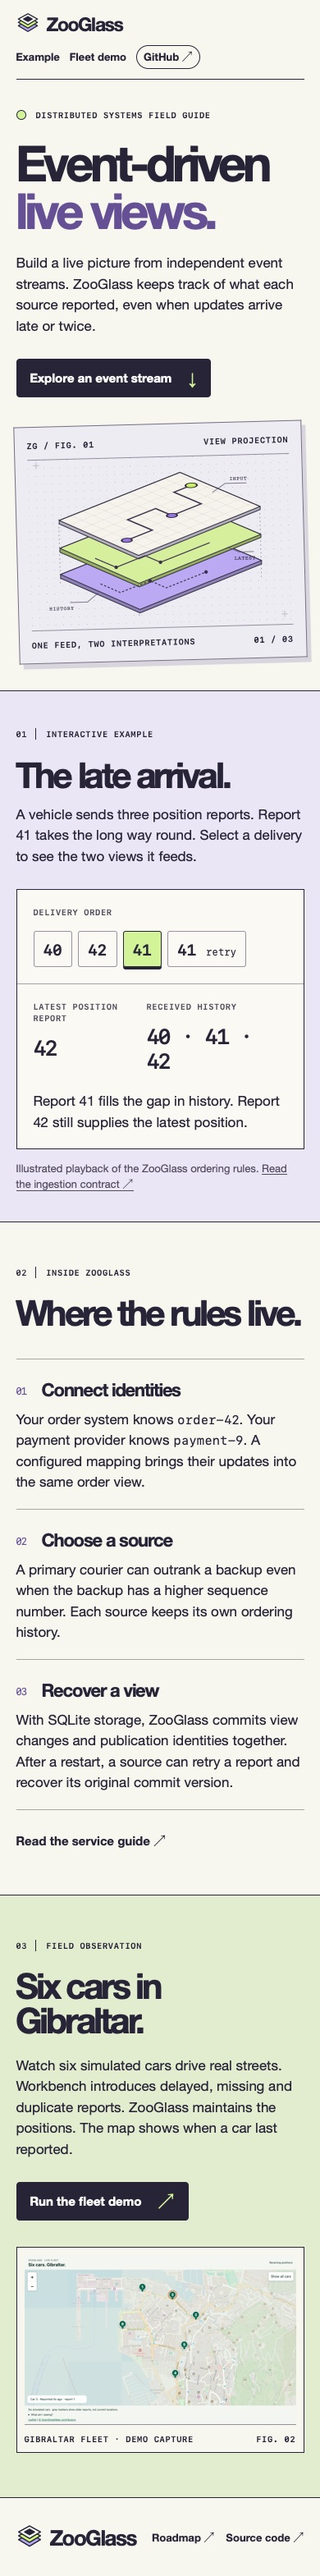
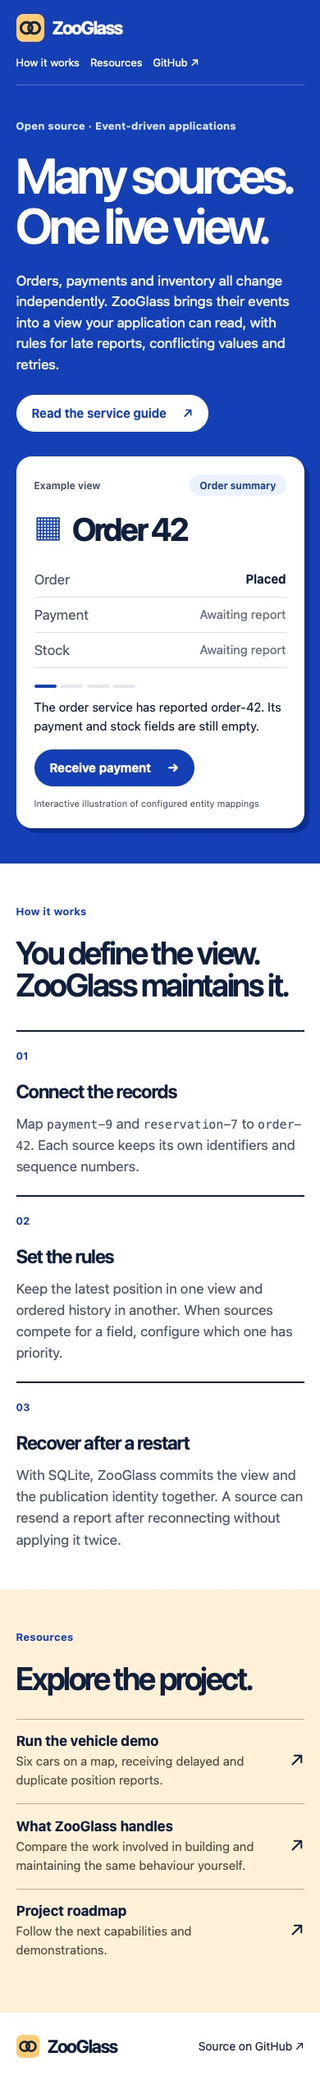
Introduce ZooGlass through a multi-source order view

diff --git a/site/style.css b/site/style.css
@@ -1,91 +1,78 @@
 :root {
   color-scheme: light;
-  --paper: #f7f7ef;
-  --ink: #262436;
-  --line: #a6a4a4;
-  --violet: #655096;
-  --lime: #d3f399;
-  --mono: ui-monospace, SFMono-Regular, Consolas, monospace;
+  --blue: #153fb4;
+  --deep: #101f3c;
+  --amber: #ffcb73;
+  --muted: #4a576c;
 }
 * { box-sizing: border-box; }
-body { margin: 0; color: var(--ink); background: var(--paper); font: 17px/1.5 "Helvetica Neue", Arial, sans-serif; }
-.wrap { width: min(1280px, 90%); margin-inline: auto; }
+body { margin: 0; color: var(--deep); font: 17px/1.54 system-ui, sans-serif; background: white; }
+.frame { width: min(1190px, 90%); margin-inline: auto; }
 a { color: inherit; text-underline-offset: .2em; }
-a:focus-visible, button:focus-visible { outline: 3px solid #9a50d2; outline-offset: 4px; }
-.skip { position: absolute; top: -6rem; left: 1rem; padding: .7rem; background: white; z-index: 5; }
-.skip:focus { top: .5rem; }
-.mast, footer { display: flex; align-items: center; justify-content: space-between; gap: 18px; }
-.mast { padding-block: 18px; border-bottom: 1px solid var(--ink); }
-.brand { display: inline-flex; gap: 9px; align-items: center; font-size: 26px; letter-spacing: -.06em; font-weight: 750; text-decoration: none; }
-nav, footer > div { display: flex; align-items: center; gap: clamp(14px, 3vw, 42px); }
-nav a, footer a, .textlink { font-weight: 600; font-size: 15px; text-decoration: none; }
-nav a:hover, footer a:hover, .textlink:hover { text-decoration: underline; }
-.repo { padding: 7px 15px; border: 1px solid var(--ink); border-radius: 20px; }
-.hero { display: grid; grid-template-columns: .95fr 1.05fr; align-items: center; gap: 5%; padding-block: clamp(48px, 7vw, 100px); }
-.kicker, .section-label, .plate-head, figcaption, h3 { font: 600 12px/1.4 var(--mono); letter-spacing: .07em; text-transform: uppercase; }
-.kicker, .section-label { display: flex; align-items: center; gap: 12px; }
-.kicker i { width: 12px; height: 12px; border-radius: 50%; background: var(--lime); border: 1px solid var(--ink); }
-h1, h2 { margin: 0; font-weight: 570; letter-spacing: -.075em; line-height: .97; }
-h1 { font-size: clamp(60px, 7.8vw, 112px); margin: 22px 0; }
-h1 span { color: var(--violet); }
-.intro > p, .fleet p, .lab-title > p { max-width: 44ch; margin: 0; }
-.cta { display: inline-flex; align-items: center; gap: 20px; margin-top: 28px; background: var(--ink); color: white; padding: 12px 17px; border-radius: 4px; text-decoration: none; font-size: 15px; font-weight: 600; }
-.cta b { color: var(--lime); font-size: 20px; line-height: 1; }
-.cta:hover { background: #493b63; }
-figure { margin: 0; }
-.plate { padding: 15px; border: 1px solid #767081; background: #eeecf3; transform: rotate(-1.5deg); box-shadow: 5px 6px 0 #d9d5df; }
-.plate-head, figcaption { display: flex; justify-content: space-between; align-items: center; gap: 8px; font-size: 10px; }
-.plate-head { padding-bottom: 10px; border-bottom: 1px solid #96909e; }
-.plate img { display: block; width: 100%; height: auto; }
-figcaption { border-top: 1px solid #96909e; padding-top: 10px; }
-.lab { padding-block: 45px 36px; background: #eae6f6; border-block: 1px solid var(--ink); }
-.section-label span { padding-right: 10px; border-right: 1px solid; font-weight: 500; }
-h2 { font-size: clamp(43px, 5.1vw, 76px); }
-.lab-title { display: flex; justify-content: space-between; align-items: end; gap: 32px; margin: 22px 0 28px; }
-.lab-title > p { max-width: 46ch; }
-.console { background: #faf9f4; border: 1px solid var(--ink); display: grid; grid-template-columns: .9fr 1.4fr; }
-.controls, .outputs { padding: clamp(20px, 3vw, 42px); }
-h3 { margin: 0 0 16px; color: #514e5c; }
-.controls { border-right: 1px solid var(--ink); }
-.steps { display: flex; flex-wrap: wrap; gap: 7px; }
-.steps button { position: relative; cursor: pointer; padding: 9px 11px; min-height: 44px; font: 600 19px var(--mono); color: var(--ink); background: transparent; border: 1px solid #9993a1; border-radius: 3px; }
-.steps small { font: 12px var(--mono); }
-.steps button[aria-pressed=true] { background: var(--lime); border-color: var(--ink); box-shadow: 0 3px 0 var(--ink); }
-.outputs { display: grid; grid-template-columns: 1fr 1.5fr; column-gap: 16px; }
-.outputs strong { font: 550 clamp(26px, 2.9vw, 44px)/1 var(--mono); letter-spacing: -.07em; }
-.outputs p { grid-column: 1/-1; margin: 20px 0 0; min-height: 3em; }
-.caption { font-size: 13px; color: #51495e; margin-bottom: 0; }
-.rules, .fleet { padding-block: clamp(54px, 7vw, 95px); }
-.rules h2, .fleet h2 { margin: 21px 0; }
-dl { margin: 35px 0 24px; }
-dl > div { display: grid; grid-template-columns: .95fr 1.05fr; gap: 5%; border-top: 1px solid var(--line); padding: 20px 0; }
-dl > div:last-child { border-bottom: 1px solid var(--line); }
-dt { font-size: clamp(22px, 2.6vw, 36px); font-weight: 550; letter-spacing: -.055em; }
-dt i { font: 12px var(--mono); color: var(--violet); margin-right: 14px; vertical-align: middle; }
-dd { margin: 0; max-width: 61ch; }
-code { font: .9em var(--mono); }
-.fleet { border-block: 1px solid var(--ink); background: #e2eccf; }
-.fleet-inner { display: grid; grid-template-columns: .85fr 1.15fr; align-items: center; gap: 6%; }
-.fleet figure { background: var(--paper); border: 1px solid var(--ink); padding: 9px; }
-.fleet img { display: block; width: 100%; }
-footer { padding-block: 28px; }
+a:focus-visible, button:focus-visible { outline: 3px solid #e77725; outline-offset: 4px; }
+.skip { position: absolute; top: -70px; left: 1rem; padding: .6rem; background: white; z-index: 2; }
+.skip:focus { top: 1rem; }
+.opening { background: var(--blue); color: white; }
+.mast, footer, nav, .brand { display: flex; align-items: center; }
+.mast, footer { justify-content: space-between; }
+.mast { padding-block: 24px; border-bottom: 1px solid #ffffff45; gap: 15px; }
+.brand { gap: 10px; font-size: 26px; font-weight: 680; letter-spacing: -.06em; text-decoration: none; }
+nav { gap: clamp(15px, 3vw, 40px); }
+nav a, footer > a:last-child { font-size: 14px; text-decoration: none; }
+nav a:hover, footer a:hover { text-decoration: underline; }
+.hero { display: grid; grid-template-columns: 1.12fr .88fr; align-items: center; gap: 8%; padding-block: clamp(65px, 7vw, 110px); }
+.eyebrow { font-size: 13px; font-weight: 660; margin: 0 0 20px; letter-spacing: .025em; }
+.hero .eyebrow { color: #d5e4ff; }
+h1, h2, h3, p { margin-top: 0; }
+h1, h2 { letter-spacing: -.065em; line-height: 1.02; }
+h1 { font-size: clamp(60px, 6.6vw, 101px); font-weight: 610; margin-bottom: 23px; }
+.lede { color: #eef4ff; max-width: 46ch; font-size: clamp(17px, 1.4vw, 21px); line-height: 1.5; }
+.button, button { display: inline-flex; gap: 20px; align-items: center; justify-content: space-between; border-radius: 30px; padding: 12px 19px; text-decoration: none; font: 650 15px/1.4 system-ui,sans-serif; }
+.button { background: white; color: var(--blue); margin-top: 8px; }
+button { border: 0; background: var(--deep); color: white; cursor: pointer; }
+button[hidden] { display: none; }
+.button:hover { background: var(--amber); }
+button:hover { background: var(--blue); }
+.example { background: white; color: var(--deep); border-radius: 19px; padding: clamp(22px, 3vw, 38px); box-shadow: 12px 12px 0 #092e94; }
+.example-head { display: flex; align-items: center; justify-content: space-between; gap: 12px; color: var(--muted); font-size: 12px; font-weight: 650; }
+.tag { color: #214488; background: #eaf1ff; padding: 4px 12px; border-radius: 18px; }
+.order-title { display: flex; align-items: center; gap: 12px; margin-top: 20px; }
+.order-title h2 { margin: 0; font-size: 39px; }
+.parcel { color: var(--blue); font-size: 40px; line-height: 1; }
+dl { margin: 20px 0; }
+dl > div { display: flex; justify-content: space-between; gap: 10px; align-items: center; padding: 8px 0; border-bottom: 1px solid #d8dfeb; }
+dt { color: var(--muted); }
+dd { margin: 0; font-size: 15px; font-weight: 650; }
+.example[data-step="0"] #payment, .example[data-step="0"] #stock, .example[data-step="1"] #stock { color: #687388; font-weight: 450; }
+.indicator { display: flex; gap: 5px; }
+.indicator i { width: 27px; height: 4px; background: #e2e6ed; border-radius: 3px; }
+.indicator .filled { background: var(--blue); }
+.delivery p { font-size: 15px; margin: 12px 0 17px; min-height: 4.65em; }
+.example > small { display: block; font-size: 11px; margin-top: 12px; color: var(--muted); }
+.content, .resources { padding-block: clamp(48px, 6vw, 88px); }
+.section-intro .eyebrow, .resources .eyebrow { color: var(--blue); }
+.section-intro h2, .resources h2 { font-size: clamp(39px, 4vw, 61px); font-weight: 600; margin-bottom: 0; }
+.stories { display: grid; grid-template-columns: repeat(3, 1fr); gap: 5%; margin-top: 35px; }
+article { border-top: 2px solid var(--deep); padding-top: 15px; }
+.index { color: var(--blue); font-size: 13px; font-weight: 650; }
+h3 { font-size: 23px; font-weight: 650; letter-spacing: -.045em; margin: 14px 0 8px; }
+article p { margin: 0; color: var(--muted); }
+code { font-size: .87em; }
+.resources { background: #fff0d7; }
+.resource-grid { display: grid; grid-template-columns: .9fr 1.1fr; gap: 6%; }
+.links a { display: flex; align-items: center; gap: 16px; justify-content: space-between; padding: 13px 0 17px; border-top: 1px solid #b8a88e; text-decoration: none; }
+.links a:hover b { text-decoration: underline; }
+.links small { display: block; font-size: 15px; color: #544d43; }
+.links em { font-style: normal; font-size: 22px; }
+footer { padding-block: 24px; }
 @media (max-width: 760px) {
-  .hero, .fleet-inner { grid-template-columns: 1fr; gap: 32px; }
-  .hero { padding-block: 36px; }
-  .plate { width: min(100%, 540px); margin: auto; }
-  .console { grid-template-columns: 1fr; }
-  .controls { border: 0; border-bottom: 1px solid var(--line); }
-  .lab-title { display: grid; gap: 14px; }
-  dl > div { grid-template-columns: 1fr; gap: 7px; }
-}
-@media (max-width: 460px) {
-  .mast { flex-wrap: wrap; gap: 8px; padding-block: 12px; }
-  .mast .brand { font-size: 23px; }
-  .mast img { width: 28px; height: 28px; }
-  nav { gap: 12px; }
-  nav a, footer a { font-size: 13px; }
-  .repo { padding: 4px 8px; }
-  .outputs { grid-template-columns: 1fr 1.4fr; }
-  h3 { font-size: 10px; }
-  .kicker, .section-label { font-size: 10px; }
+  .hero, .resource-grid { grid-template-columns: 1fr; gap: 30px; }
+  .hero { padding-block: 39px 43px; }
+  .stories { grid-template-columns: 1fr; gap: 22px; }
+  .delivery p { min-height: 3em; }
+  .mast { padding-block: 17px; flex-wrap: wrap; }
+  .brand { font-size: 22px; }
+  nav { gap: 13px; }
+  nav a { font-size: 13px; }
+  .example { box-shadow: 6px 6px 0 #092e94; }
 }

diff --git a/site/index.html b/site/index.html
@@ -1,30 +1,59 @@
 <!doctype html>
 <html lang="en">
 <head>
-  <meta charset="utf-8"><meta name="viewport" content="width=device-width, initial-scale=1">
-  <meta name="theme-color" content="#f7f7ef"><meta name="description" content="ZooGlass maintains event-driven live views across independent sources. Explore how it handles late reports, conflicting values and retries.">
-  <link rel="canonical" href="https://zooglass.io/"><link rel="icon" href="assets/mark.svg" type="image/svg+xml">
-  <link rel="stylesheet" href="style.css"><script defer src="example.js"></script><title>ZooGlass · Event-driven live views</title>
+  <meta charset="utf-8">
+  <meta name="viewport" content="width=device-width, initial-scale=1">
+  <meta name="theme-color" content="#153fb4">
+  <meta name="description" content="ZooGlass maintains live application views from independent event streams. Explore a multi-source order view, source priority and durable recovery.">
+  <link rel="canonical" href="https://zooglass.io/">
+  <link rel="icon" href="assets/mark.svg" type="image/svg+xml">
+  <link rel="stylesheet" href="style.css">
+  <script defer src="example.js"></script>
+  <title>ZooGlass · Live views across systems</title>
 </head>
 <body>
 <a class="skip" href="#main">Skip to content</a>
-<header class="wrap mast"><a class="brand" href="./"><img src="assets/mark.svg" width="40" height="40" alt="">ZooGlass</a><nav aria-label="Main navigation"><a href="#field-example">Example</a><a href="#fleet">Fleet demo</a><a class="repo" href="https://github.com/sproates/zooglass">GitHub ↗</a></nav></header>
+<div class="opening">
+<header class="frame mast">
+  <a class="brand" href="./" aria-label="ZooGlass home"><img src="assets/mark.svg" width="34" height="34" alt="">ZooGlass</a>
+  <nav aria-label="Site navigation"><a href="#how">How it works</a><a href="#resources">Resources</a><a href="https://github.com/sproates/zooglass">GitHub ↗</a></nav>
+</header>
 <main id="main">
-<section class="wrap hero">
-  <div class="intro"><div class="kicker"><i></i> Distributed systems field guide</div><h1>Event-driven<br><span>live views.</span></h1><p>Build a live picture from independent event streams. ZooGlass keeps track of what each source reported, even when updates arrive late or twice.</p><a class="cta" href="#field-example">Explore an event stream <b aria-hidden="true">↓</b></a></div>
-  <figure class="plate"><div class="plate-head"><span>ZG / FIG. 01</span><span>View projection</span></div><img src="assets/plates.svg" alt="Three stacked glass plates represent the incoming stream, its latest value and its ordered history." width="600" height="390"><figcaption>One feed, two interpretations <span>01 / 03</span></figcaption></figure>
+<section class="frame hero">
+  <div class="hero-copy">
+    <p class="eyebrow">Open source · Event-driven applications</p>
+    <h1>Many sources.<br>One live view.</h1>
+    <p class="lede">Orders, payments and inventory all change independently. ZooGlass brings their events into a view your application can read, with rules for late reports, conflicting values and retries.</p>
+    <a class="button" href="https://github.com/sproates/zooglass/blob/main/zooglass/README.md">Read the service guide <span aria-hidden="true">↗</span></a>
+  </div>
+  <div class="example" aria-label="Interactive order example">
+    <div class="example-head"><span>Example view</span><span class="tag">Order summary</span></div>
+    <div class="order-title"><span class="parcel" aria-hidden="true">▦</span><h2>Order 42</h2></div>
+    <dl aria-live="polite" aria-atomic="true">
+      <div><dt>Order</dt><dd>Placed</dd></div>
+      <div id="payment-row"><dt>Payment</dt><dd id="payment">Awaiting report</dd></div>
+      <div id="stock-row"><dt>Stock</dt><dd id="stock">Awaiting report</dd></div>
+    </dl>
+    <div class="delivery"><div class="indicator" aria-hidden="true"><i></i><i></i><i></i><i></i></div>
+      <p id="detail" aria-live="polite">The order service has reported order-42. Its payment and stock fields are still empty.</p>
+      <button id="advance" type="button" hidden>Receive payment <span aria-hidden="true">→</span></button>
+    </div>
+    <small>Interactive illustration of configured entity mappings</small>
+  </div>
 </section>
-<section id="field-example" class="lab"><div class="wrap"><div class="section-label"><span>01</span> Interactive example</div><div class="lab-title"><h2>The late arrival.</h2><p>A vehicle sends three position reports. Report 41 takes the long way round. Select a delivery to see the two views it feeds.</p></div>
- <div class="console"><div class="controls"><h3>Delivery order</h3><div id="steps" class="steps" role="group" aria-label="Choose a delivery"><button type="button" data-step="0" aria-pressed="false">40</button><button type="button" data-step="1" aria-pressed="false">42</button><button type="button" data-step="2" aria-pressed="true">41</button><button type="button" data-step="3" aria-pressed="false">41 <small>retry</small></button></div></div>
- <div class="outputs" aria-live="polite" aria-atomic="true"><div><h3>Latest position report</h3><strong id="latest">42</strong></div><div><h3>Received history</h3><strong id="history">40 · 41 · 42</strong></div><p id="note">Report 41 fills the gap in history. Report 42 still supplies the latest position.</p></div></div>
- <p class="caption">Illustrated playback of the ZooGlass ordering rules. <a href="https://github.com/sproates/zooglass/blob/main/zooglass/docs/v2-ingestion.md">Read the ingestion contract ↗</a></p></div></section>
-<section class="wrap rules"><div class="section-label"><span>02</span> Inside ZooGlass</div><h2>Where the rules live.</h2><dl>
- <div><dt><i>01</i> Connect identities</dt><dd>Your order system knows <code>order-42</code>. Your payment provider knows <code>payment-9</code>. A configured mapping brings their updates into the same order view.</dd></div>
- <div><dt><i>02</i> Choose a source</dt><dd>A primary courier can outrank a backup even when the backup has a higher sequence number. Each source keeps its own ordering history.</dd></div>
- <div><dt><i>03</i> Recover a view</dt><dd>With SQLite storage, ZooGlass commits view changes and publication identities together. After a restart, a source can retry a report and recover its original commit version.</dd></div>
- </dl><a class="textlink" href="https://github.com/sproates/zooglass/blob/main/zooglass/README.md">Read the service guide ↗</a></section>
-<section id="fleet" class="fleet"><div class="wrap fleet-inner"><div><div class="section-label"><span>03</span> Field observation</div><h2>Six cars in<br>Gibraltar.</h2><p>Watch six simulated cars drive real streets. Workbench introduces delayed, missing and duplicate reports. ZooGlass maintains the positions. The map shows when a car last reported.</p><a class="cta" href="https://github.com/sproates/zooglass/blob/main/workbench/docs/continuous-driving.md">Run the fleet demo <b aria-hidden="true">↗</b></a></div>
- <figure><a href="assets/gibraltar.png" aria-label="Open full-size fleet demo screenshot"><img loading="lazy" src="assets/gibraltar.png" alt="ZooGlass fleet demo with six numbered vehicle markers on a street map of Gibraltar."></a><figcaption>Gibraltar fleet · Demo capture <span>FIG. 02</span></figcaption></figure></div></section>
-</main>
-<footer class="wrap"><a class="brand" href="./"><img src="assets/mark.svg" width="32" height="32" alt="">ZooGlass</a><div><a href="https://github.com/sproates/zooglass/blob/main/ROADMAP.md">Roadmap ↗</a><a href="https://github.com/sproates/zooglass">Source code ↗</a></div></footer>
+</main></div>
+<section class="frame content" id="how" aria-labelledby="how-title">
+  <div class="section-intro"><p class="eyebrow">How it works</p><h2 id="how-title">You define the view.<br>ZooGlass maintains it.</h2></div>
+  <div class="stories">
+    <article><span class="index">01</span><h3>Connect the records</h3><p>Map <code>payment-9</code> and <code>reservation-7</code> to <code>order-42</code>. Each source keeps its own identifiers and sequence numbers.</p></article>
+    <article><span class="index">02</span><h3>Set the rules</h3><p>Keep the latest position in one view and ordered history in another. When sources compete for a field, configure which one has priority.</p></article>
+    <article><span class="index">03</span><h3>Recover after a restart</h3><p>With SQLite, ZooGlass commits the view and the publication identity together. A source can resend a report after reconnecting without applying it twice.</p></article>
+  </div>
+</section>
+<section class="resources" id="resources"><div class="frame resource-grid"><div><p class="eyebrow">Resources</p><h2>Explore the project.</h2></div><div class="links">
+<a href="https://github.com/sproates/zooglass/blob/main/workbench/docs/continuous-driving.md"><span><b>Run the vehicle demo</b><small>Six cars on a map, receiving delayed and duplicate position reports.</small></span><em aria-hidden="true">↗</em></a>
+<a href="https://github.com/sproates/zooglass/blob/main/docs/developer-value.md"><span><b>What ZooGlass handles</b><small>Compare the work involved in building and maintaining the same behaviour yourself.</small></span><em aria-hidden="true">↗</em></a>
+<a href="https://github.com/sproates/zooglass/blob/main/ROADMAP.md"><span><b>Project roadmap</b><small>Follow the next capabilities and demonstrations.</small></span><em aria-hidden="true">↗</em></a>
+</div></div></section>
+<footer class="frame"><a class="brand" href="./"><img src="assets/mark.svg" width="28" height="28" alt="">ZooGlass</a><a href="https://github.com/sproates/zooglass">Source on GitHub ↗</a></footer>
 </body></html>

diff --git a/site/example.js b/site/example.js
@@ -1,19 +1,40 @@
-const deliveries = [
-  { latest: 40, history: [40], note: "The first report supplies both the latest position and the first history entry." },
-  { latest: 42, history: [40, 42], note: "Report 42 advances the latest position. The received history has a gap at 41." },
-  { latest: 42, history: [40, 41, 42], note: "Report 41 fills the gap in history. Report 42 still supplies the latest position." },
-  { latest: 42, history: [40, 41, 42], note: "The source retries report 41 with the same identity and payload. ZooGlass recognises the duplicate and keeps both views as they are." }
+const states = [
+  {
+    payment: "Awaiting report", stock: "Awaiting report", next: "Receive payment",
+    detail: "The order service has reported order-42. Its payment and stock fields are still empty."
+  },
+  {
+    payment: "Paid", stock: "Awaiting report", next: "Receive reservation",
+    detail: "The payment provider calls this payment-9. The configured mapping puts its report on order-42."
+  },
+  {
+    payment: "Paid", stock: "Reserved", next: "Retry payment report",
+    detail: "The warehouse reports reservation-7. Its stock update joins the same order and preserves the payment."
+  },
+  {
+    payment: "Paid", stock: "Reserved", next: "Start again",
+    detail: "The payment provider resends the same publication. ZooGlass recognises the retry. Both field values stay as they were."
+  }
 ];
 
-const buttons = [...document.querySelectorAll("[data-step]")];
-for (const button of buttons) {
-  button.addEventListener("click", () => {
-    const delivery = deliveries[Number(button.dataset.step)];
-    for (const option of buttons) {
-      option.setAttribute("aria-pressed", String(option === button));
-    }
-    document.querySelector("#latest").textContent = delivery.latest;
-    document.querySelector("#history").textContent = delivery.history.join(" · ");
-    document.querySelector("#note").textContent = delivery.note;
-  });
+const advance = document.querySelector("#advance");
+const example = document.querySelector(".example");
+const indicators = [...document.querySelectorAll(".indicator i")];
+let step = 0;
+
+function render() {
+  const state = states[step];
+  document.querySelector("#payment").textContent = state.payment;
+  document.querySelector("#stock").textContent = state.stock;
+  document.querySelector("#detail").textContent = state.detail;
+  advance.firstChild.textContent = state.next + " ";
+  example.dataset.step = String(step);
+  indicators.forEach((indicator, index) => indicator.classList.toggle("filled", index <= step));
 }
+
+advance.addEventListener("click", () => {
+  step = (step + 1) % states.length;
+  render();
+});
+render();
+advance.hidden = false;

diff --git a/README.md b/README.md
@@ -1,7 +1,7 @@
 # ZooGlass website
 
-The project showcase for [zooglass.io](https://zooglass.io). Static HTML, CSS and JavaScript live in `site/`. The interactive example illustrates the ordering rules locally. The fleet screenshot comes from the [vehicle demo](https://github.com/sproates/zooglass/tree/main/demos/vehicle-tracker), including its map attribution.
+The [ZooGlass](https://zooglass.io) project site lives in `site/`. The order example illustrates view-local mappings and publication retries in the browser.
 
-Run `python3 -m http.server 8000 --directory site` and open http://localhost:8000. Check changes with `python3 scripts/check-site.py` and `node --check site/example.js`.
+Use `panack-http-server` for previews. Serve a copy of `site/` with its canonical URL set to the preview address. Bind the server to the Mac’s LAN address with `--no-cache --noindex` and share that address with reviewers.
 
-Pull requests run the site checks. Merging to main deploys the contents of `site/` through GitHub Pages.
+Run `python3 scripts/check-site.py` and `node --check site/example.js` to check local references and JavaScript syntax. Merging to main deploys the static site through GitHub Pages.
